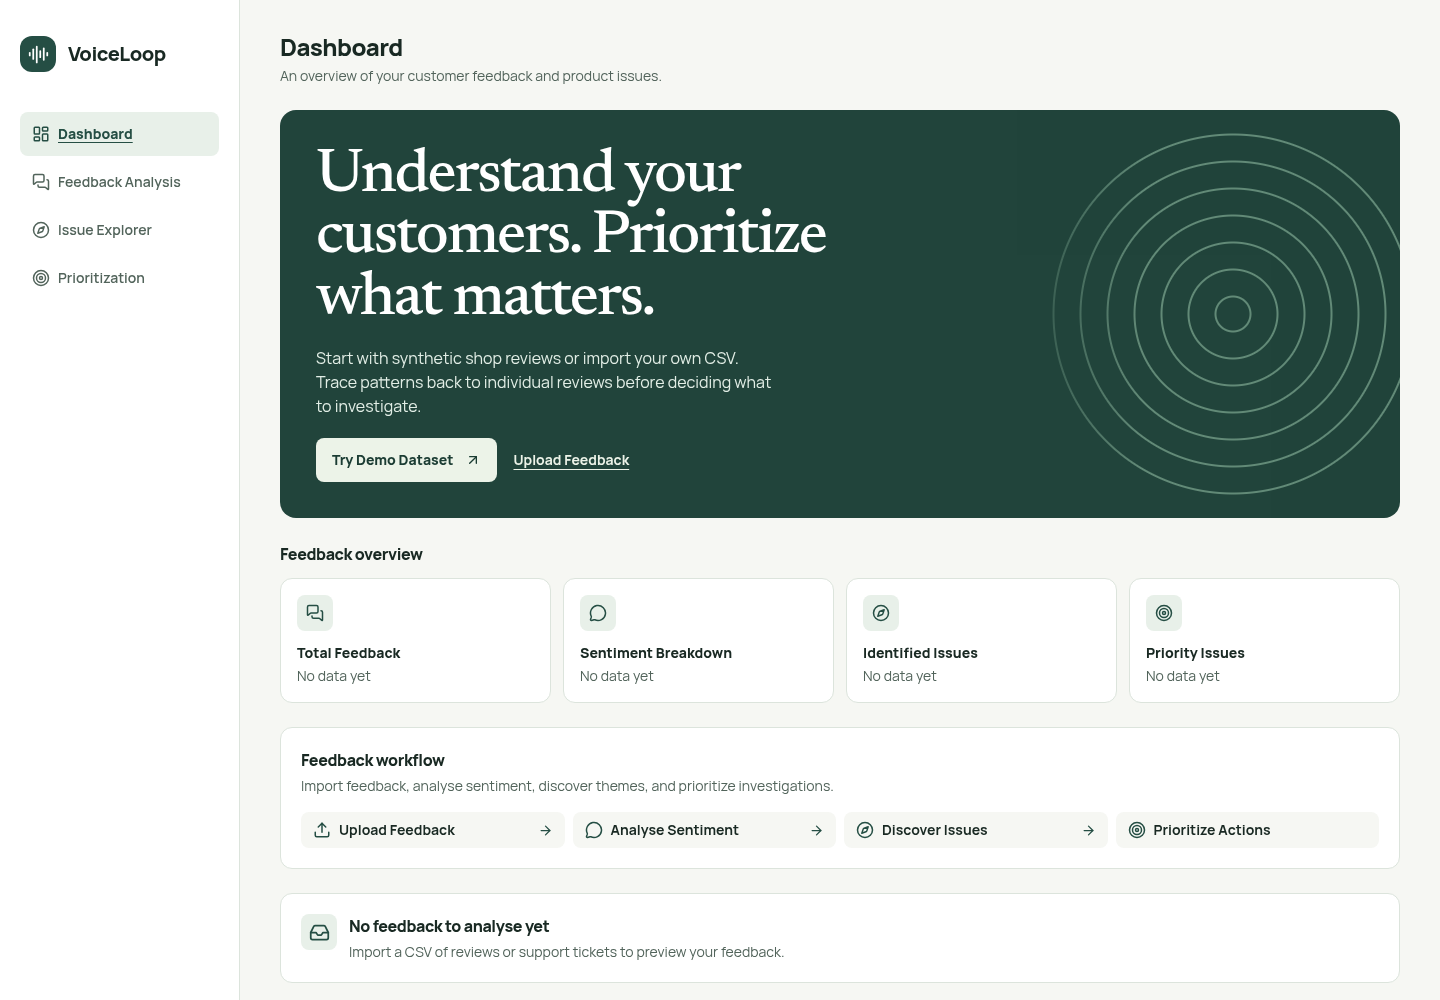
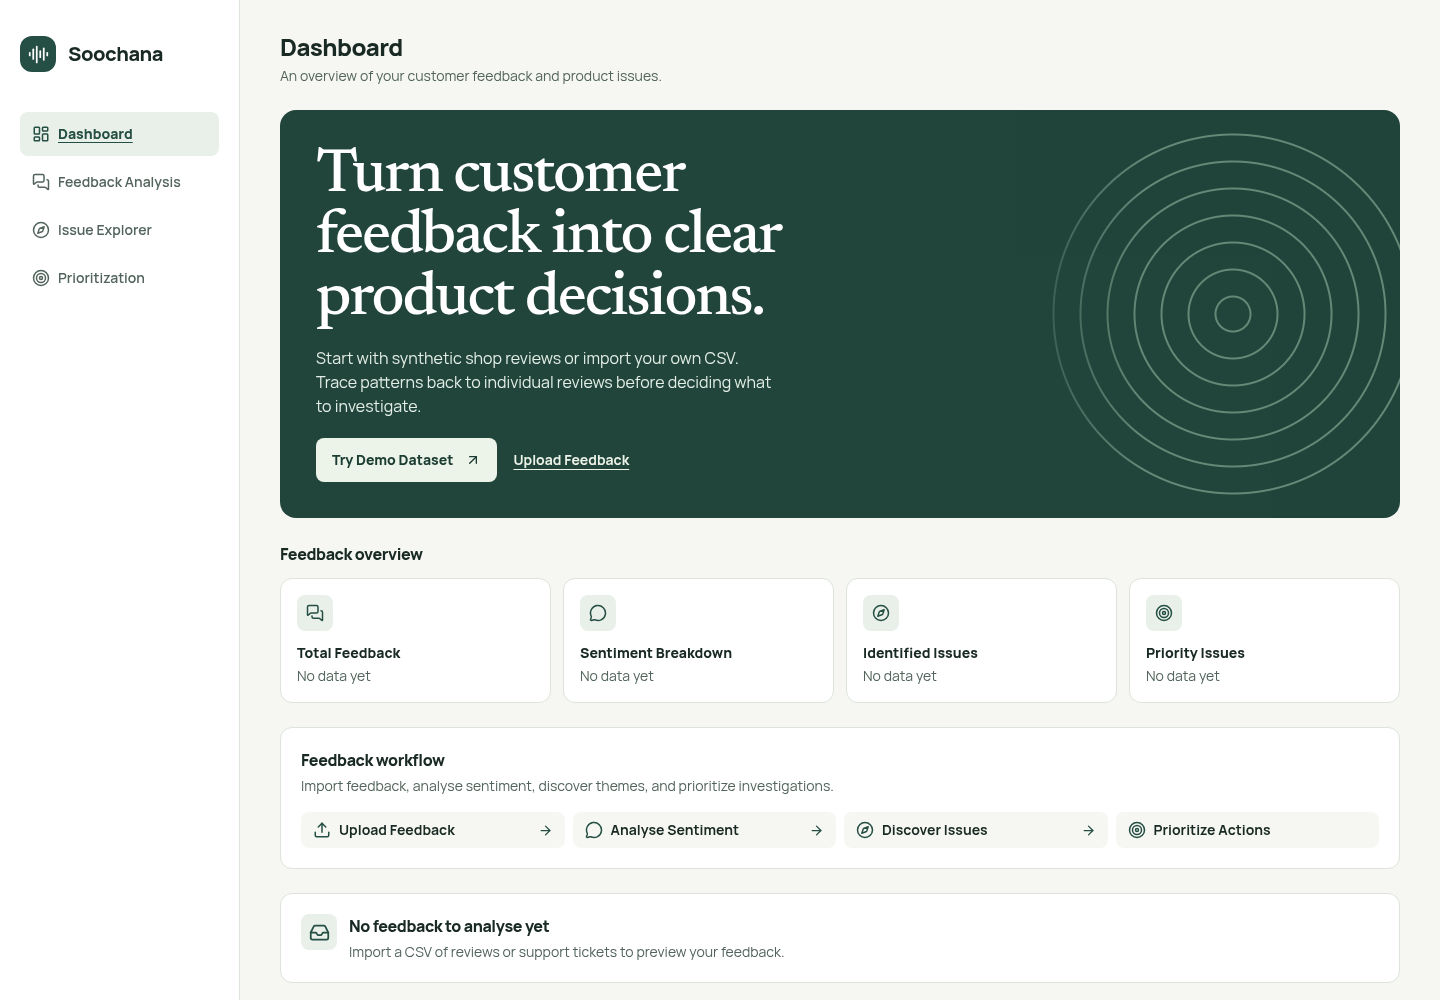
feat: rebrand VoiceLoop as Soochana

Changed region(s): [[0.2188, 0.124, 0.5938, 0.341], [0.0312, 0.031, 0.125, 0.062]]

diff --git a/src/app/layout.tsx b/src/app/layout.tsx
@@ -6,10 +6,15 @@ import { AppShell } from "@/components/layout/app-shell";
 import { FeedbackSession } from "@/features/feedback/session";
 import "./globals.css";
 
+const tagline = "Turn customer feedback into clear product decisions.";
+
 export const metadata: Metadata = {
-  title: { default: "Dashboard | VoiceLoop", template: "%s | VoiceLoop" },
-  description: "Turn customer feedback into product decisions.",
-  icons: { icon: "/voiceloop.svg" },
+  title: { default: "Dashboard | Soochana", template: "%s | Soochana" },
+  description: tagline,
+  applicationName: "Soochana",
+  openGraph: { title: "Soochana", description: tagline, siteName: "Soochana", type: "website" },
+  twitter: { card: "summary", title: "Soochana", description: tagline },
+  icons: { icon: "/soochana.svg" },
 };
 
 export default function RootLayout({ children }: { children: ReactNode }) {

diff --git a/src/app/page.tsx b/src/app/page.tsx
@@ -25,7 +25,7 @@ export default function Dashboard() {
       <DashboardData empty={<>
       <section className="hero" aria-labelledby="dashboard-intro">
         <div className="hero-content">
-          <h2 id="dashboard-intro">Understand your customers. Prioritize what matters.</h2>
+          <h2 id="dashboard-intro">Turn customer feedback into clear product decisions.</h2>
           <p>Start with synthetic shop reviews or import your own CSV. Trace patterns back to individual reviews before deciding what to investigate.</p>
           <div className="hero-actions">
             <Link href="/feedback#start-import" className="primary-link">

diff --git a/src/features/feedback/import-workflow.tsx b/src/features/feedback/import-workflow.tsx
@@ -117,9 +117,9 @@ export function ImportWorkflow() {
   function selectDemo() {
     void loadFile(async () => {
       try {
-        const response = await fetch("/demo/voiceloop-demo.csv");
+        const response = await fetch("/demo/soochana-demo.csv");
         if (!response.ok) throw new Error("Demo download failed");
-        return new File([await response.blob()], "voiceloop-demo.csv", { type: "text/csv" });
+        return new File([await response.blob()], "soochana-demo.csv", { type: "text/csv" });
       } catch {
         throw new Error("The demo CSV could not be loaded. Try again or browse for your own CSV.");
       }

diff --git a/tests/csv.test.tsx b/tests/csv.test.tsx
@@ -142,7 +142,7 @@ it("bounds the number of mapping options for wide CSV files", () => {
 });
 
 it("accepts all 96 portfolio demo reviews with their mapped metadata", () => {
-  const csv = parseCsv(readFileSync("public/demo/voiceloop-demo.csv", "utf8"));
+  const csv = parseCsv(readFileSync("public/demo/soochana-demo.csv", "utf8"));
   const mapping = suggestMapping(csv.headers);
   expect(mapping).toEqual({ text: 0, date: 1, source: 2, rating: 3, category: 4 });
   const report = validateRows(csv, mapping);

diff --git a/src/app/manifest.ts b/src/app/manifest.ts
@@ -1,0 +1,12 @@
+import type { MetadataRoute } from "next";
+
+export default function manifest(): MetadataRoute.Manifest {
+  return {
+    name: "Soochana",
+    short_name: "Soochana",
+    description: "Customer feedback intelligence and product prioritization.",
+    start_url: "/",
+    display: "standalone",
+    icons: [{ src: "/soochana.svg", sizes: "any", type: "image/svg+xml" }],
+  };
+}

diff --git a/src/components/layout/navigation.tsx b/src/components/layout/navigation.tsx
@@ -18,7 +18,7 @@ export function Navigation() {
     <aside className="sidebar">
       <Link href="/" className="brand">
         <span className="brand-mark"><AudioLines aria-hidden="true" size={21} /></span>
-        VoiceLoop
+        Soochana
       </Link>
       <nav aria-label="Main navigation">
         <ul className="nav-list">

diff --git a/README.md b/README.md
@@ -1,16 +1,18 @@
-# VoiceLoop
+# Soochana
 
-**Turn customer feedback into product decisions.**
+**Turn customer feedback into clear product decisions.**
 
-VoiceLoop is a customer feedback intelligence workspace for product managers, product and business analysts, customer experience and operations teams, and founders. Reviews and support tickets often arrive in separate tools and describe the same problem in different words. VoiceLoop aims to bring that feedback together and help teams decide what to investigate, with links back to the original evidence.
+Soochana is a customer feedback intelligence workspace for product managers, product and business analysts, customer experience and operations teams, and founders. Reviews and support tickets often arrive in separate tools and describe the same problem in different words. Soochana aims to bring that feedback together and help teams decide what to investigate, with links back to the original evidence.
+
+Soochana means a clue, indication, or signal. Earlier milestone reports use the former name, VoiceLoop.
 
 ## Portfolio demo
 
-Start VoiceLoop locally, select **Try Demo Dataset**, and confirm the import of 96 synthetic shop reviews. Explore feedback by source and date, and inspect category and rating in the original reviews. Run browser-based sentiment and semantic grouping when model downloads are available, then rank a manual or discovered issue using review evidence and your own assessments.
+Start Soochana locally, select **Try Demo Dataset**, and confirm the import of 96 synthetic shop reviews. Explore feedback by source and date, and inspect category and rating in the original reviews. Run browser-based sentiment and semantic grouping when model downloads are available, then rank a manual or discovered issue using review evidence and your own assessments.
 
-![VoiceLoop dashboard populated from the synthetic demo CSV](docs/demo/screenshots/dashboard-demo.png)
+![Soochana dashboard populated from the synthetic demo CSV](docs/demo/screenshots/dashboard-demo.png)
 
-- [Step-by-step demo](docs/demo/walkthrough.md) · [Empty dashboard](docs/demo/screenshots/dashboard-empty.png) · [Synthetic CSV](public/demo/voiceloop-demo.csv) · [Vercel release plan and checklist](docs/demo/release-checklist.md)
+- [Step-by-step demo](docs/demo/walkthrough.md) · [Empty dashboard](docs/demo/screenshots/dashboard-empty.png) · [Synthetic CSV](public/demo/soochana-demo.csv) · [Vercel release plan and checklist](docs/demo/release-checklist.md)
 - [Milestone 7 QA and evaluation](docs/qa/milestone-7-report.md)
 
 Use Node.js 24 and run:
@@ -20,7 +22,7 @@ npm ci
 npm run dev
 ```
 
-Open [localhost:3000](http://localhost:3000). For production-style demo verification, run `npm run build` and `npm start`, then use `VOICELOOP_CHROMIUM=/path/to/chromium npm run qa:demo` in a second terminal. Set `VOICELOOP_URL` for a different local port and `VOICELOOP_SCREENSHOTS` to save screenshots.
+Open [localhost:3000](http://localhost:3000). For production-style demo verification, run `npm run build` and `npm start`, then use `SOOCHANA_CHROMIUM=/path/to/chromium npm run qa:demo` in a second terminal. Set `SOOCHANA_URL` for a different local port and `SOOCHANA_SCREENSHOTS` to save screenshots.
 
 CSV processing and inference run in the browser. Session data clears on refresh. First-time inference requires network access to the model and WASM hosts. The manual demo requires neither model. Deployment approval is pending.
 
@@ -83,7 +85,7 @@ After confirming a dataset in **Feedback Analysis**, choose a scope and select *
 
 ### Model and browser privacy
 
-VoiceLoop runs [Xenova/twitter-roberta-base-sentiment-latest](https://huggingface.co/Xenova/twitter-roberta-base-sentiment-latest) at revision `f3ec4d0925f90c3ca7ee7814f52d6ee7cf180445`, using Transformers.js 4.3.2 and ONNX Runtime WASM in a dedicated module Web Worker. This is Xenova's quantized ONNX conversion of [Twitter-roBERTa-base for Sentiment Analysis](https://huggingface.co/cardiffnlp/twitter-roberta-base-sentiment-latest) by CardiffNLP, whose model card specifies [CC BY 4.0](https://creativecommons.org/licenses/by/4.0/). The conversion card links the original and lists no separate license. Transformers.js is [Apache-2.0](https://github.com/huggingface/transformers.js/blob/main/LICENSE).
+Soochana runs [Xenova/twitter-roberta-base-sentiment-latest](https://huggingface.co/Xenova/twitter-roberta-base-sentiment-latest) at revision `f3ec4d0925f90c3ca7ee7814f52d6ee7cf180445`, using Transformers.js 4.3.2 and ONNX Runtime WASM in a dedicated module Web Worker. This is Xenova's quantized ONNX conversion of [Twitter-roBERTa-base for Sentiment Analysis](https://huggingface.co/cardiffnlp/twitter-roberta-base-sentiment-latest) by CardiffNLP, whose model card specifies [CC BY 4.0](https://creativecommons.org/licenses/by/4.0/). The conversion card links the original and lists no separate license. Transformers.js is [Apache-2.0](https://github.com/huggingface/transformers.js/blob/main/LICENSE).
 
 Model indices are **0 Negative, 1 Neutral, 2 Positive**. The quantized model file is 125,905,426 bytes (120.1 MiB), plus tokenizer, configuration and WASM assets. Use a current browser with Web Workers and WebAssembly, available memory, and internet access for the initial download. Model files come from Hugging Face and runtime files come from jsDelivr. Cache Storage can retain model and runtime assets where available, subject to browser limits and eviction. **The browser downloads model files. Customer feedback is analysed locally and is never uploaded for inference.** Reviews and predictions are held only in session memory.
 
@@ -99,7 +101,7 @@ Chromium ran the real pinned model in WASM. Accuracy was **83.3% (30/36)** and m
 
 The cloud Chromium build rejected the model host's TLS certificate. During verification, the test harness streamed the real pinned model and runtime artifacts fetched by the workspace's trusted HTTPS client. The application worker and inference code were unchanged. Normal browser runs fetch the assets directly.
 
-To reproduce, build and start with `npm run build` and `npm start`. Run `VOICELOOP_CHROMIUM=/path/to/chromium npm run evaluate:sentiment` with a current Chrome or Chromium executable. Set `VOICELOOP_URL` if the app uses a different address. The script imports the fixture through the app and prints real browser predictions, per-class metrics, the confusion matrix, and the five smoke cases.
+To reproduce, build and start with `npm run build` and `npm start`. Run `SOOCHANA_CHROMIUM=/path/to/chromium npm run evaluate:sentiment` with a current Chrome or Chromium executable. Set `SOOCHANA_URL` if the app uses a different address. The script imports the fixture through the app and prints real browser predictions, per-class metrics, the confusion matrix, and the five smoke cases.
 
 ## Milestone 4
 
@@ -125,7 +127,7 @@ The [48-example synthetic fixture](evaluation/issues-fixture.json) uses seven au
 
 At cutoff 0.75, Chromium produced **3 recurring groups and 42 ungrouped reviews**. Pairwise precision was **0.667**, recall **0.019**, and F1 **0.037** (2 correct pairs, 1 false merge, 103 false splits). The false merge paired a slow delivery with praise phrased as “not slow at all.” All three specified same-topic smoke pairs scored higher than both unrelated comparisons, but all fell below the default cutoff. The default is conservative on this fixture, with very low recall.
 
-After `npm run build` and `npm start`, run `VOICELOOP_CHROMIUM=/path/to/chromium npm run evaluate:issues`. Set `VOICELOOP_URL` for a different address. The runner uses the real application worker and prints measured similarities, pairwise metrics, and each false merge and split.
+After `npm run build` and `npm start`, run `SOOCHANA_CHROMIUM=/path/to/chromium npm run evaluate:issues`. Set `SOOCHANA_URL` for a different address. The runner uses the real application worker and prints measured similarities, pairwise metrics, and each false merge and split.
 
 Real Chromium inference and the issue workflow were verified with checksum-matched MiniLM weights fetched over trusted HTTPS and streamed by the test harness. At Milestone 4, the default cloud Chromium profile rejected the model host’s TLS certificate, so direct cold downloads were unverified and the milestone remained partial. Browser coverage was limited to Chromium. Milestone 3 retains its earlier partial status and its assistant-labelled synthetic sentiment evaluation. Later cold-start results are recorded in the [release checklist](docs/demo/release-checklist.md#local-cold-start-evidence).
 
@@ -154,7 +156,7 @@ The original 48 examples plus nine new examples form the **57-review development
 
 See the [full 40-configuration comparison](evaluation/issues-4.1-report.md) for group sizes, cohesion, timings, and machine-readable false-pair evidence. The browser coverage and cloud TLS caveats from Milestones 3 and 4 still apply. The real worker ran with checksum-verified assets staged for the test. The synthetic holdout does not establish production grouping quality.
 
-With the production app running and `VOICELOOP_CHROMIUM` set to a Chrome or Chromium executable, reproduce with:
+With the production app running and `SOOCHANA_CHROMIUM` set to a Chrome or Chromium executable, reproduce with:
 
 ```bash
 npm run evaluate:issues -- baseline average-link-v1 0.45
@@ -214,16 +216,16 @@ The release-readiness audit covers regression tests, browser accessibility, priv
 Use Node.js 22.13 or later in the 22.x line, or Node.js 24 or later, and npm.
 
 ```bash
-git clone --recurse-submodules https://github.com/harisankar-work/voiceloop.git
-cd voiceloop
+git clone --recurse-submodules https://github.com/harisankar-work/soochana.git
+cd soochana
 git submodule update --init --recursive
 npm ci
 npm run dev
 ```
 
-When the optional ONNX Runtime Node GPU download is blocked, use `ONNXRUNTIME_NODE_INSTALL=skip npm ci`. VoiceLoop uses the browser WASM runtime.
+When the optional ONNX Runtime Node GPU download is blocked, use `ONNXRUNTIME_NODE_INSTALL=skip npm ci`. Soochana uses the browser WASM runtime.
 
-For an existing checkout, start with the submodule command from the project root. Open [VoiceLoop locally](http://localhost:3000).
+For an existing checkout, start with the submodule command from the project root. Open [Soochana locally](http://localhost:3000).
 
 ```bash
 npm run typecheck
@@ -258,4 +260,4 @@ Future exports will let teams share reports with supporting evidence.
 
 ## License
 
-VoiceLoop application code is available under the [MIT License](LICENSE). The design reference retains its upstream terms.
+Soochana application code is available under the [MIT License](LICENSE). The design reference retains its upstream terms.

diff --git a/docs/demo/walkthrough.md b/docs/demo/walkthrough.md
@@ -1,6 +1,6 @@
-# VoiceLoop portfolio walkthrough
+# Soochana portfolio walkthrough
 
-You are reviewing feedback for a fictional online shop. Find an issue worth investigating and show the reviews that support it. The demo contains 96 synthetic reviews across four channels and eight categories, with dates and ratings for filtering. The same [demo CSV](../../public/demo/voiceloop-demo.csv) can be downloaded and imported manually.
+You are reviewing feedback for a fictional online shop. Find an issue worth investigating and show the reviews that support it. The demo contains 96 synthetic reviews across four channels and eight categories, with dates and ratings for filtering. The same [demo CSV](../../public/demo/soochana-demo.csv) can be downloaded and imported manually.
 
 ## 1. Import and validate
 
@@ -29,4 +29,4 @@ The two model actions download pinned browser artifacts on first use. If the dow
 
 ![Prioritization with a real manual issue saved against synthetic evidence](screenshots/prioritization-demo.png)
 
-VoiceLoop keeps feedback, results, issues and drafts in the current browser session. Refreshing clears that session. Browser caches can retain downloaded model artifacts.
+Soochana keeps feedback, results, issues and drafts in the current browser session. Refreshing clears that session. Browser caches can retain downloaded model artifacts.

diff --git a/docs/demo/release-checklist.md b/docs/demo/release-checklist.md
@@ -1,8 +1,8 @@
-# VoiceLoop release plan
+# Soochana release plan
 
 ## Candidate and approval
 
-Use the verified Milestone 8.1 commit on `main` as the release candidate. Deployment and publishing a preview require separate approval. Before wiring Git integration, check the target project and account for automatic production and preview deployments, and keep those disabled until authorized.
+Use the verified Soochana release commit on `main` as the candidate. The Vercel project is `soochana` under `harisankar-dev`. Verify a staged build before assigning the production domain. Check automatic deployment settings before connecting a Git integration.
 
 ## Vercel configuration
 
